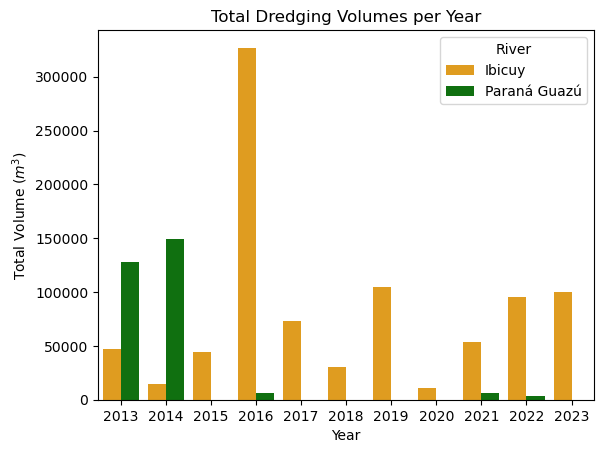
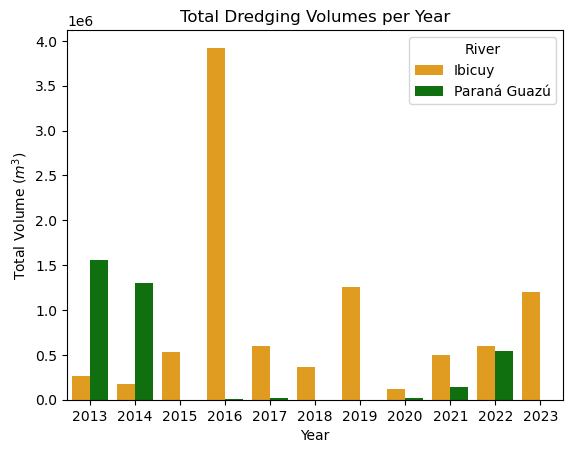
Update on Overleaf.

diff --git a/mainmatter/chapter-2.tex b/mainmatter/chapter-2.tex
@@ -135,9 +135,9 @@ The number of vessels engaged in dredging activities on the Paraná Guazú was d
 \subsection{Extraction permits}
 To avoid adverse impacts on the hydraulic regime from dredging, companies must first obtain permits from the \textit{National Water Institute }(INA). These permits specify the locations and volumes of the proposed dredging activities. The information they provide serves as a reliable estimate of the total material being removed from the river, thereby influencing the sediment balance. Therefore, the permits were analysed for the area of interest.
 
-A total of 25 permits were collected for the Paraná Guazú and 51 for the Ibicuy. On both river sections, only two permits related to channel maintenance, while all others concerned sand extraction. The analysis highlights that the requested volumes for the Ibicuy are considerably larger than those for the Paraná Guazú, despite the Ibicuy being much shorter in length.
+A total of 33 permits were collected for the Paraná Guazú and 43 for the Ibicuy. On the Paraná Guazú, four permits were issued for channel maintenance, while the remainder concerned sand extraction. For the Ibicuy, all permits were related to extraction activities. The analysis shows that the requested volumes in the Ibicuy are considerably larger than those in the Paraná Guazú, even though the section of the Ibicuy considered here is much shorter in length.
 
-It is important to note that the end dates of contracts are unknown. While the requests specify monthly dredging quantities, they do not indicate the duration of the works. As a result, a detailed quantitative assessment cannot be made. For the present analysis, all requests are treated as single jobs with a fixed monthly volume, allowing for a qualitative comparison between the two river sections, as shown in Figure \ref{fig:yearly dredging volumes}. The figure shows that dredging on the Paraná Guazú has been very limited over the period 2015-2023. 
+It is important to note that the end dates of contracts are unknown. While the requests specify monthly dredging quantities, they do not indicate the duration of the works. As a result, a detailed quantitative assessment cannot be made. For the present analysis, all requests with fixed monthly volumes are assumed to extend over 12 months, allowing for a comparison between the two river sections, as shown in Figure \ref{fig:yearly dredging volumes}. The second assumption is to record a single value for the requested volume, when information about monthly or yearly occurrence is lacking.
 
 \begin{figure}
     \centering

diff --git a/mainmatter/chapter-3.tex b/mainmatter/chapter-3.tex
@@ -23,6 +23,8 @@ In this part of the report, the stakeholders related to Rio Paraná Guazú will 
 
 \section{Ports}
 
+
+
 \subsection{Guazú}
 
 \subsection{Ibicuy}
